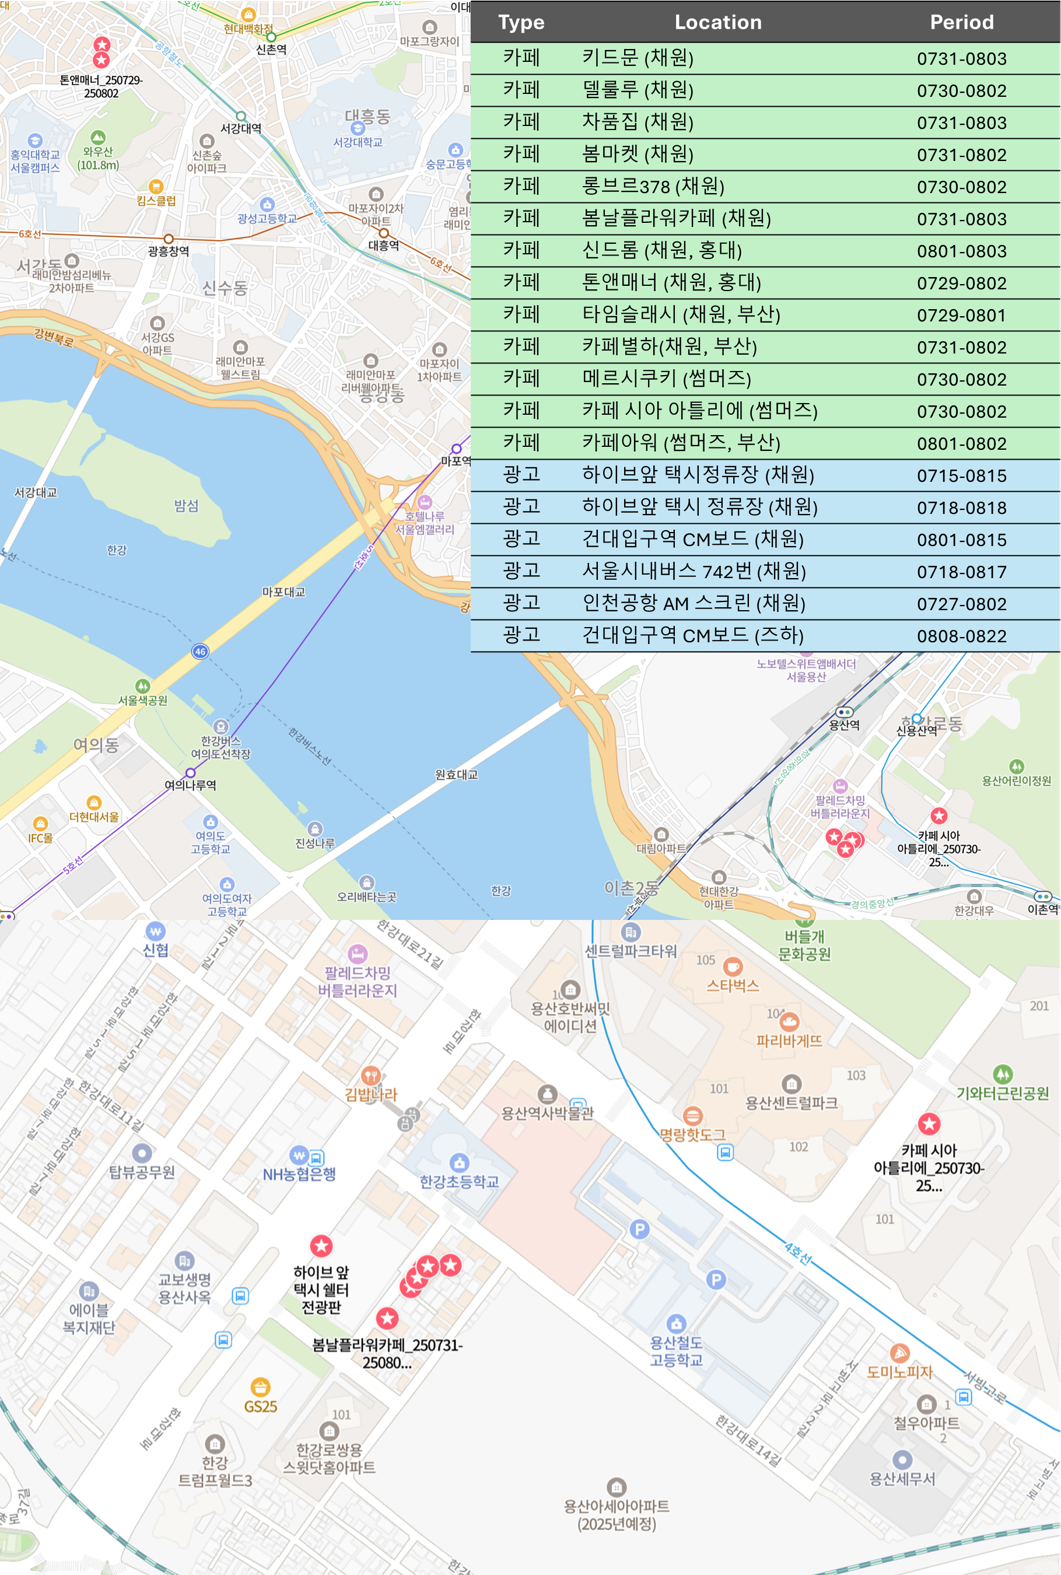
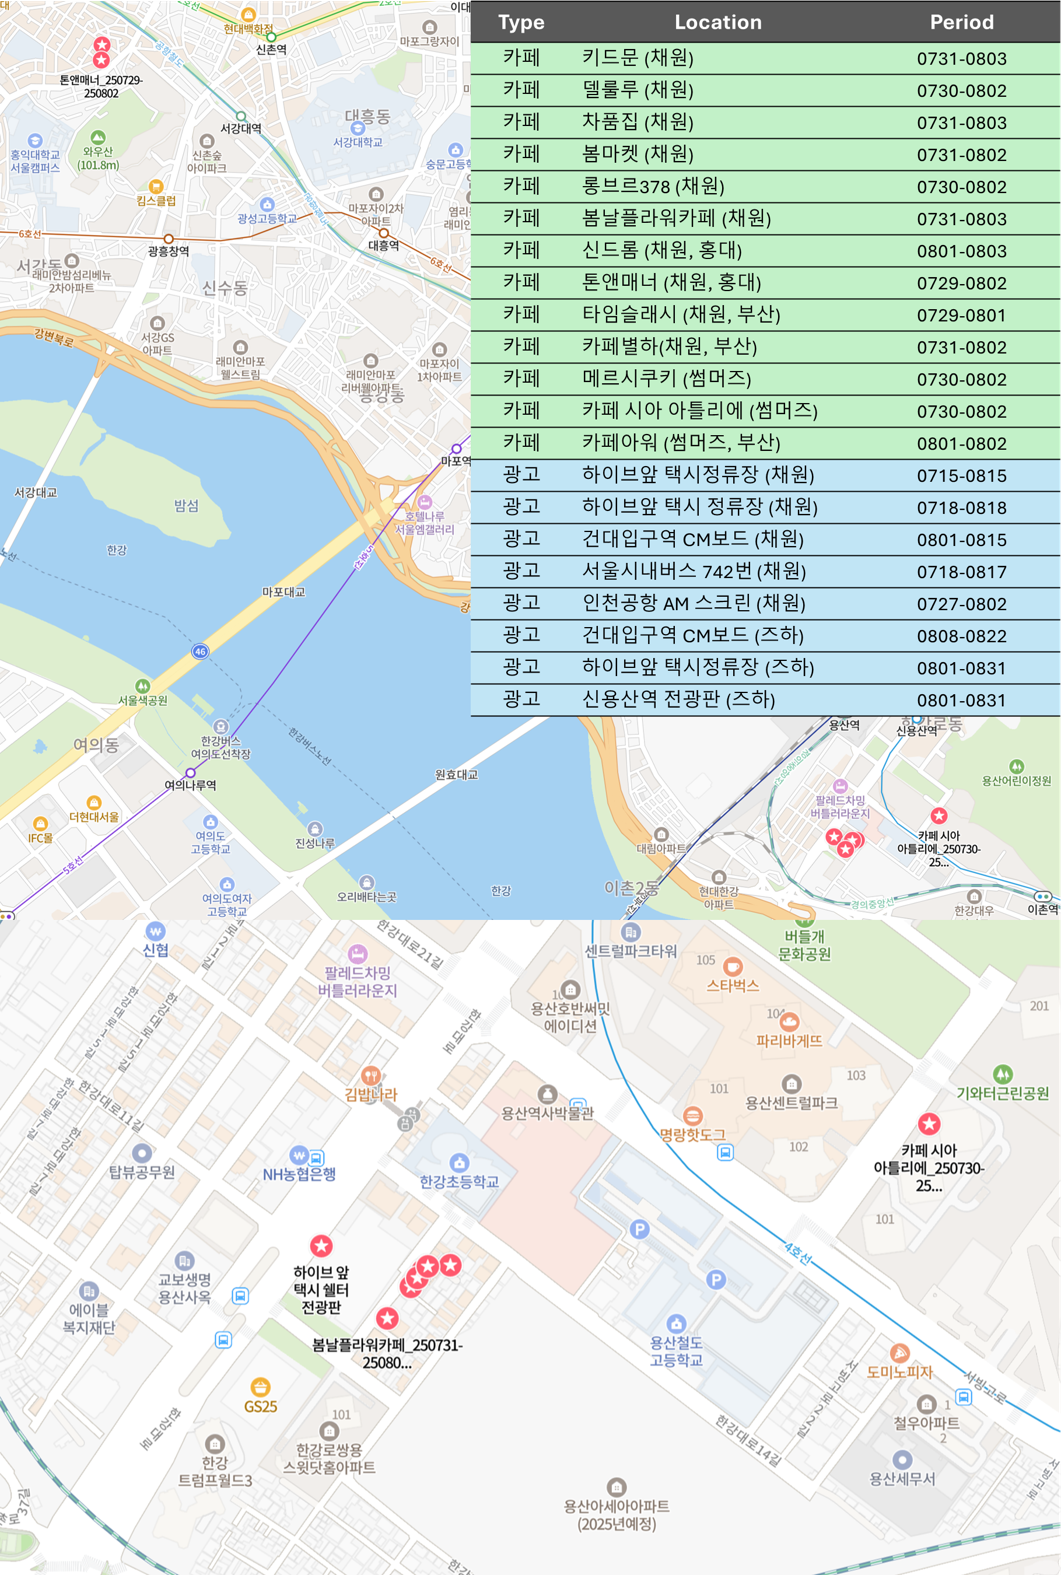
즈하광고추가

Changed region(s): [[0.4354, 0.4044, 1.0, 0.4667]]

diff --git a/_notes/하이브 사옥 앞 택시 정류장_250801-250831.md b/_notes/하이브 사옥 앞 택시 정류장_250801-250831.md
@@ -1,0 +1,12 @@
+---
+title: 하이브 사옥 앞 택시 정류장_250801-250831
+tags:
+  - 2025년_즈하_생일광고
+---
+<img src="assets/1753786455.jpg">
+
+<img src="assets/1753878469.jpg">
+
+## 트위터
+
+<blockquote class="twitter-tweet"><p lang="ja" dir="ltr"><a href="https://twitter.com/hashtag/StarKazuha_Projects?src=hash&amp;ref_src=twsrc%5Etfw">#StarKazuha_Projects</a><br><br>🍃恋叶日记——2025生日及巡演应援🍃<br><br>𝐏𝐚𝐫𝐭.𝟒 ｜HYBE Taxi Shelter, Yongsan<br><br>Location: 서울 용산구 한강댜로 42<br>Time: 8.1-8.31<br>Frequency: 30s/100/day<br><br>🫶 <a href="https://twitter.com/oe0809kzh?ref_src=twsrc%5Etfw">@oe0809kzh</a> <a href="https://twitter.com/hashtag/KAZUHA?src=hash&amp;ref_src=twsrc%5Etfw">#KAZUHA</a> <a href="https://twitter.com/hashtag/%EC%B9%B4%EC%A6%88%ED%95%98?src=hash&amp;ref_src=twsrc%5Etfw">#카즈하</a> <a href="https://twitter.com/hashtag/%E3%82%AB%E3%82%BA%E3%83%8F?src=hash&amp;ref_src=twsrc%5Etfw">#カズハ</a> <a href="https://twitter.com/hashtag/LE_SSERAFIM?src=hash&amp;ref_src=twsrc%5Etfw">#LE_SSERAFIM</a> <a href="https://twitter.com/hashtag/%EB%A5%B4%EC%84%B8%EB%9D%BC%ED%95%8C?src=hash&amp;ref_src=twsrc%5Etfw">#르세라핌</a> <a href="https://t.co/LYsWURblva">pic.twitter.com/LYsWURblva</a></p>&mdash; KAZUHA China Bar (@KazuhaBar_CN) <a href="https://twitter.com/KazuhaBar_CN/status/1950140458081935371?ref_src=twsrc%5Etfw">July 29, 2025</a></blockquote> <script async src="https://platform.twitter.com/widgets.js" charset="utf-8"></script>

diff --git a/_notes/신용산역 생일 전광판_250801-250831.md b/_notes/신용산역 생일 전광판_250801-250831.md
@@ -1,0 +1,11 @@
+---
+title: 신용산역 생일 전광판_250801-250831
+tags:
+  - 2025년_즈하_생일광고
+---
+<img src="assets/1753788118.jpg">
+<img src="assets/1753786455 (1).jpg">
+
+## 트위터
+
+<blockquote class="twitter-tweet"><p lang="ja" dir="ltr"><a href="https://twitter.com/hashtag/StarKazuha_Projects?src=hash&amp;ref_src=twsrc%5Etfw">#StarKazuha_Projects</a><br><br>🍃恋叶日记——2025生日及巡演应援🍃<br><br>𝐏𝐚𝐫𝐭.𝟑｜Seoul Yongsan Station Digital Board<br><br>Location: 신룡산역 Yongsan Station Exit2<br>Time: 8.1-8.31<br>Frequency: 30s/100/day<a href="https://twitter.com/hashtag/KAZUHA?src=hash&amp;ref_src=twsrc%5Etfw">#KAZUHA</a> <a href="https://twitter.com/hashtag/%EC%B9%B4%EC%A6%88%ED%95%98?src=hash&amp;ref_src=twsrc%5Etfw">#카즈하</a> <a href="https://twitter.com/hashtag/%E3%82%AB%E3%82%BA%E3%83%8F?src=hash&amp;ref_src=twsrc%5Etfw">#カズハ</a> <a href="https://twitter.com/hashtag/LE_SSERAFIM?src=hash&amp;ref_src=twsrc%5Etfw">#LE_SSERAFIM</a> <a href="https://twitter.com/hashtag/%EB%A5%B4%EC%84%B8%EB%9D%BC%ED%95%8C?src=hash&amp;ref_src=twsrc%5Etfw">#르세라핌</a> <a href="https://t.co/xZVfJEyZkJ">pic.twitter.com/xZVfJEyZkJ</a></p>&mdash; KAZUHA China Bar (@KazuhaBar_CN) <a href="https://twitter.com/KazuhaBar_CN/status/1949427240531533966?ref_src=twsrc%5Etfw">July 27, 2025</a></blockquote> <script async src="https://platform.twitter.com/widgets.js" charset="utf-8"></script>

diff --git a/_notes/2025 즈하 생일 이벤트.md b/_notes/2025 즈하 생일 이벤트.md
@@ -30,3 +30,7 @@ tags:
 ### 성수동
 
 [[건대입구역_CM보드 광고_250808-250822]]
+
+[[하이브 사옥 앞 택시 정류장_250801-250831]]
+
+[[신용산역 생일 전광판_250801-250831]]
